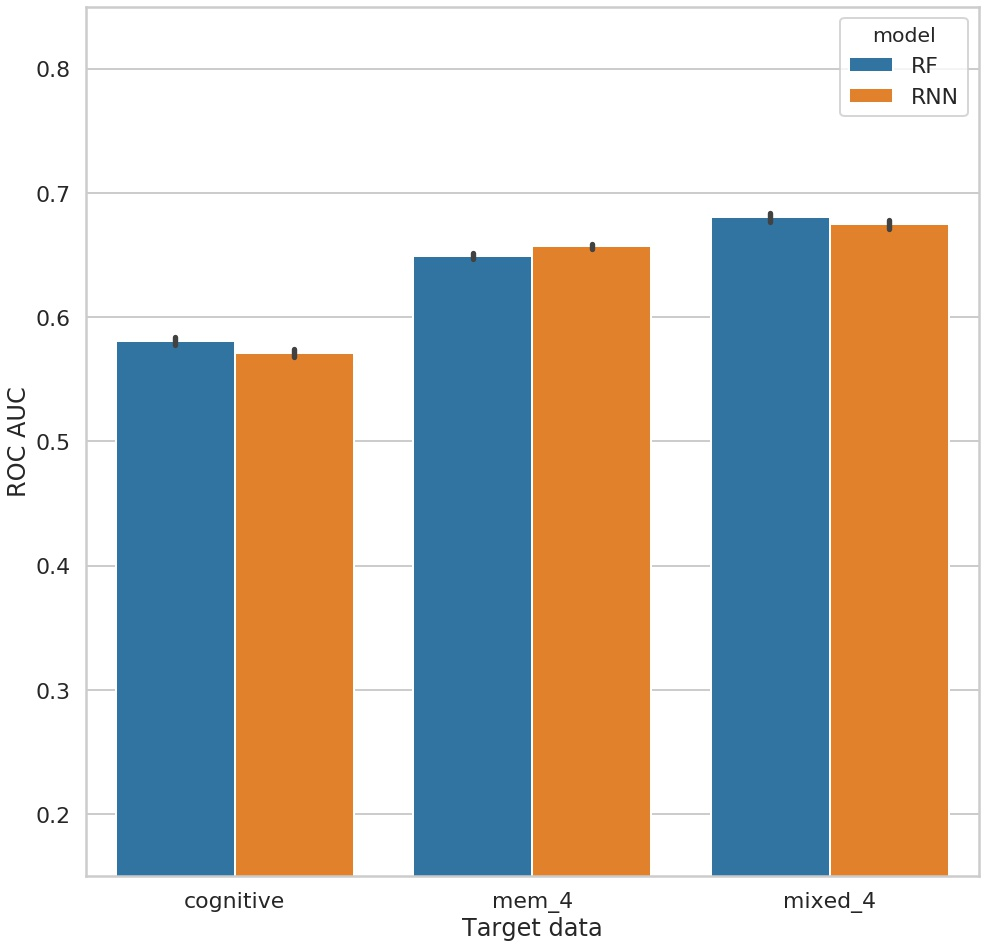
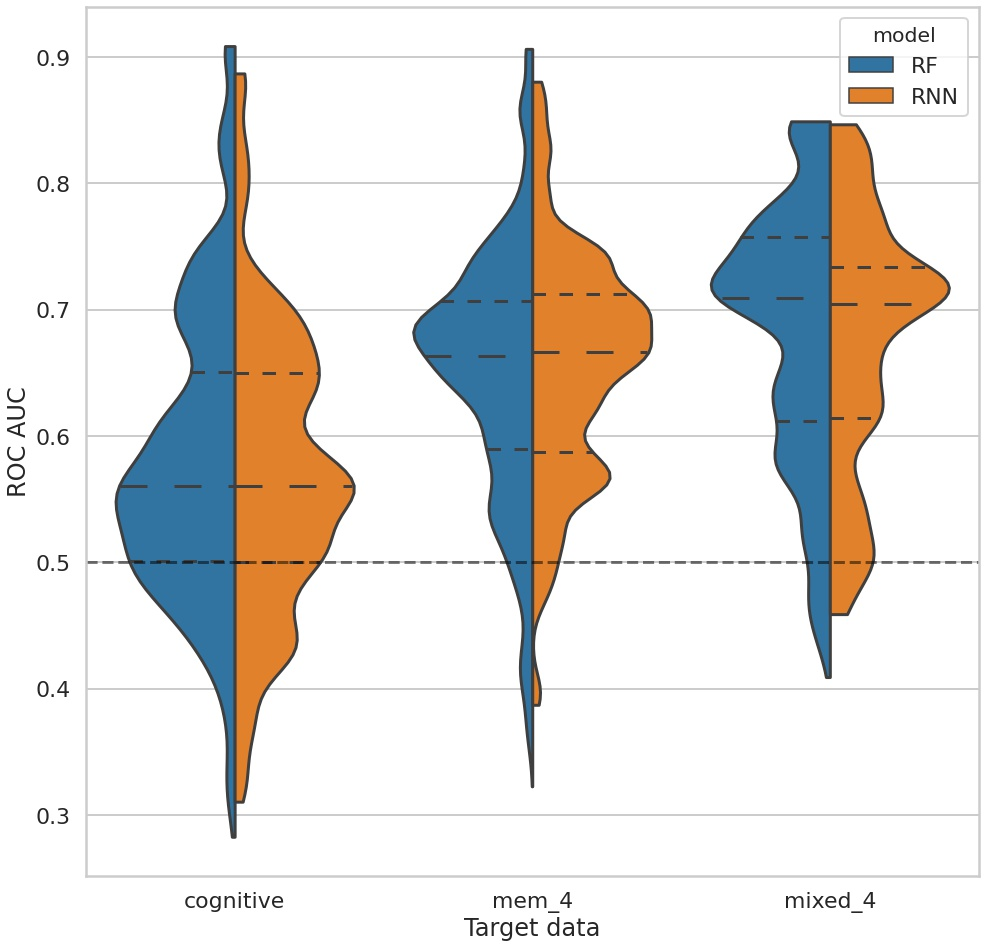
update

diff --git a/scripts/plot_CD.py b/scripts/plot_CD.py
@@ -11,13 +11,15 @@ from glob import glob
 from sklearn.preprocessing import MinMaxScaler as scaler
 import pandas as pd
 import numpy as np
+from scipy import stats
+from functools import partial
 
 from matplotlib import pyplot as plt
 import seaborn as sns
 sns.set_style('whitegrid')
 sns.set_context('poster')
 
-experiment = 'adequacy' # confidence or adequacy
+experiment = 'confidence' # confidence or adequacy
 working_dir = f'../results/{experiment}/R*CD/'
 figure_dir = f'../figures/{experiment}/CD'
 if not os.path.exists(figure_dir):
@@ -44,16 +46,24 @@ for f in working_data:
 df = pd.concat(df)
 
 df_plot = df[df['source'] != 'train']
+xargs = dict(hue = 'model',
+             hue_order = ['RF','RNN'],
+             split = True,
+             inner = 'quartile',
+             cut = 0,
+             scale = 'width',)
+
+#ax.set(xlim = (0.15,0.85))
 
 fig,ax = plt.subplots(figsize = (16,16))
-ax = sns.barplot(x = 'source',
-                 y = 'score',
-                 hue = 'model',
-                 hue_order = ['RF','RNN'],
-                 data = df_plot,
-                 ax = ax,
-                 )
-ax.set(ylim = (0.15,0.85))
+ax = sns.violinplot(x = 'source',
+                    y = 'score',
+                    data = df_plot,
+                    ax = ax,
+                    **xargs,
+                    )
+#ax.set(ylim = (0.15,0.85))
+ax.axhline(0.5,linestyle = '--',color = 'black',alpha = 0.5,)
 ax.set(xlabel = 'Target data',ylabel = 'ROC AUC',)
 fig.savefig(os.path.join(figure_dir,'cross domain decoding scores.jpeg',
                          ),
@@ -65,18 +75,41 @@ df_plot = pd.melt(df,id_vars = [item for item in df.columns if ('T' not in item)
                   value_name = 'hidden states/feature importance')
 df_plot = df_plot[df_plot['source'] != 'train']
 
-g = sns.catplot(x = 'Time',
-                y = 'hidden states/feature importance',
-                hue = 'model',
-                row = 'source',
-                hue_order = ['RF','RNN'],
-                data = df_plot,
-                kind = 'bar',
-                aspect = 2.5,
-                )
-(g.set_axis_labels('Time Steps','Weights')
-  .set_titles('{row_name}'))
-g.savefig(os.path.join(figure_dir,'hidden states of time steps.jpeg'),
+fig,axes = plt.subplots(figsize = (16,7 * 3),
+                        nrows = 3,
+                        )
+for ax,(source,df_sub_plot) in zip(axes.flatten(),df_plot.groupby('source')):
+    ax = sns.stripplot(x = 'Time',
+                       y = 'hidden states/feature importance',
+                       hue = 'model',
+                       hue_order = ['RF','RNN',],
+                       data = df_sub_plot,
+                       ax = ax,
+                       dodge = True,
+                       alpha = 0.01,)
+    temp_func = partial(stats.trim_mean,**dict(proportiontocut=0.05))
+    ax = sns.pointplot(x = 'Time',
+                       y = 'hidden states/feature importance',
+                       data = df_sub_plot,
+                       ax = ax,
+                       hue = 'model',
+                       hue_order = ['RF','RNN'],
+                       dodge = 0.4,
+                       palette = 'dark',
+                       estimator = temp_func,
+                       markers = 'd',
+                       join = False,
+                       ci = None,
+                       scale = 0.75,
+                       )
+    ax.set(xlabel = '',
+           ylabel = 'A.U.',
+           title = source,)
+    handles,labels = ax.get_legend_handles_labels()
+    ax.get_legend().remove()
+ax.set(xlabel = 'Time Steps')
+fig.legend(handles[2:],labels[2:],loc = (0.88,0.475),title = '')
+fig.savefig(os.path.join(figure_dir,'hidden states of time steps.jpeg'),
           bbox_inches = 'tight')
 
 

diff --git a/scripts/plot LOO.py b/scripts/plot LOO.py
@@ -10,6 +10,8 @@ import os
 from glob import glob
 import pandas as pd
 import numpy as np
+from scipy import stats
+from functools import partial
 from sklearn.preprocessing import MinMaxScaler as scaler
 import seaborn as sns
 from matplotlib import pyplot as plt
@@ -44,15 +46,21 @@ df = pd.concat(df)
 
 df_plot = df[df['source'] != 'train']
 
+xargs = dict(hue = 'model',
+             hue_order = ['RF','RNN'],
+             split = True,
+             inner = 'quartile',
+             cut = 0,
+             scale = 'width',)
+
 fig,ax = plt.subplots(figsize = (16,16))
-ax = sns.barplot(y = 'experiment',
-                 x = 'score',
-                 hue = 'model',
-                 hue_order = ['RF','RNN'],
-                 data = df_plot,
-                 ax = ax,
-                 )
-ax.set(xlim = (0.15,0.85))
+ax = sns.violinplot(y = 'experiment',
+                    x = 'score',
+                    data = df_plot,
+                    ax = ax,
+                    **xargs)
+#ax.set(xlim = (0.15,0.85))
+ax.axvline(0.5,linestyle = '--',color = 'black',alpha = 0.5,)
 fig.savefig(os.path.join(figure_dir,
                          'RNN vs RF LOO.jpeg'),
 #            dpi = 400,
@@ -67,20 +75,40 @@ for ax,experiment in zip(axes.flatten(),unique_experiment):
     df_sub_plot = df_sub.melt(
                           id_vars = ['fold','sub_name','model','experiment',],
                           value_vars = ['T-7', 'T-6', 'T-5', 'T-4', 'T-3', 'T-2', 'T-1'],)
-    ax = sns.barplot(x = 'variable',
-                     y = 'value',
-                     hue = 'model',
-                     hue_order = ['RF','RNN'],
-                     data = df_sub_plot,
-                     ax = ax,
-                     )
+    ax = sns.stripplot(x = 'variable',
+                       y = 'value',
+                       data = df_sub_plot,
+                       ax = ax,
+                       hue = 'model',
+                       hue_order = ['RF','RNN'],
+                       dodge = True,
+                       alpha = 0.1,)
+    temp_func = partial(stats.trim_mean,**dict(proportiontocut=0.05))
+    ax = sns.pointplot(x = 'variable',
+                       y = 'value',
+                       data = df_sub_plot,
+                       ax = ax,
+                       hue = 'model',
+                       hue_order = ['RF','RNN'],
+                       dodge = 0.5,
+                       palette = 'dark',
+                       estimator = temp_func,
+                       markers = 'd',
+                       join = False,
+                       ci = None,
+                       scale = 0.5,
+                       )
     ax.set(xlabel = '',
            ylabel = '',
            title = experiment,)
+    handles,labels = ax.get_legend_handles_labels()
+    ax.get_legend().remove()
+fig.legend(handles[2:],labels[2:],loc = (0.91,0.475),title = '')
 fig.savefig(os.path.join(figure_dir,
                          'RNN vs RF features.jpeg'),
 #            dpi = 400,
-            bbox_inches = 'tight')
+#            bbox_inches = 'tight',
+            )
 
 
 
